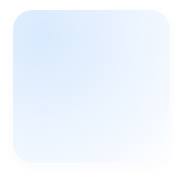
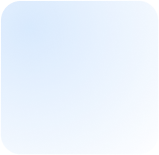
gai BUG

Changed region(s): [[0.0, 0.0, 0.6038, 0.5935]]

diff --git a/lib/src/features/home/presentation/home_widgets.dart b/lib/src/features/home/presentation/home_widgets.dart
@@ -723,102 +723,127 @@ class _CastEntryCard extends StatelessWidget {
     return GestureDetector(
       behavior: HitTestBehavior.opaque,
       onTap: onTap,
-      child: AspectRatio(
-        // 小程序 .projection-card：366×358rpx = 183×179。底图 home-*-card-bg.png
-        // 自带阴影（画布 183×179，可见卡片仅 159×155，四周约 12rpx 透明阴影边距），
-        // 因此按图片真实宽高比布局，避免被拉伸导致圆角与阴影变形。
-        aspectRatio: 183 / 179,
+      child: SizedBox(
+        // 卡片为 UI 设计图实际尺寸 158×154（即背景图 home-*-card-bg.png 的真实宽高）。
+        // 阴影不再来自图片透明边距，改由下方 boxShadow 在卡外绘制，不计入布局尺寸。
+        width: 158,
+        height: 154,
         child: Stack(
+          fit: StackFit.expand,
           children: [
-            // 卡片底图铺满（home-camera-card-bg.png / home-album-card-bg.png）。
-            Positioned.fill(
-              child: Image.asset(
-                backgroundAsset,
-                fit: BoxFit.fill,
-                errorBuilder: (context, error, stackTrace) {
-                  return DecoratedBox(
-                    decoration: BoxDecoration(
-                      color: fallbackColor,
-                      borderRadius: BorderRadius.circular(16),
-                      border: Border.all(
-                        color: Colors.white.withValues(alpha: 0.7),
-                      ),
-                    ),
-                  );
-                },
-              ),
-            ),
-            // 顶部素材图：margin 46rpx(=23) top/left。
-            Positioned(
-              left: 28,
-              top: 25,
-              width: 66,
-              height: 66,
-              child: Image.asset(
-                artAsset,
-                fit: BoxFit.contain,
-                errorBuilder: (context, error, stackTrace) {
-                  return Icon(
-                    title == '拍照'
-                        ? Icons.photo_camera_rounded
-                        : Icons.photo_library_rounded,
-                    color: title == '拍照'
-                        ? const Color(0xFFFF6A24)
-                        : const Color(0xFF287BFF),
-                    size: 44,
-                  );
-                },
-              ),
-            ),
-            // 底部文案行：.projection-copy（名称 + 描述 + 大箭头）。
-            Positioned(
-              left: 33,
-              right: 20,
-              bottom: 30,
-              child: Row(
-                crossAxisAlignment: CrossAxisAlignment.center,
-                children: [
-                  Expanded(
-                    child: Column(
-                      crossAxisAlignment: CrossAxisAlignment.start,
-                      mainAxisSize: MainAxisSize.min,
-                      children: [
-                        Text(
-                          title,
-                          maxLines: 1,
-                          overflow: TextOverflow.ellipsis,
-                          style: _HomeTextStyles.cardTitle,
-                        ),
-                        const SizedBox(height: 6),
-                        Text(
-                          subtitle,
-                          maxLines: 1,
-                          overflow: TextOverflow.ellipsis,
-                          style: _HomeTextStyles.cardSubtitle,
-                        ),
-                      ],
-                    ),
+            // 卡面层：圆角渐变底图 + 1px 白描边 + 0.64 半透明 + 柔和投影。
+            // 对照前端 CSS：border-radius:20; border:1px solid #FFF; opacity:0.64;
+            //              background:radial-gradient(...)（暖白/浅蓝已烘焙进底图）;
+            //              box-shadow:0 3px 12px rgba(44,63,97,0.04)。
+            // 投影放在最外层（全强度），卡面（描边+底图）整体 0.64，避免阴影一并被淡到不可见。
+            DecoratedBox(
+              decoration: BoxDecoration(
+                borderRadius: BorderRadius.circular(20),
+                boxShadow: const [
+                  BoxShadow(
+                    color: Color.fromRGBO(44, 63, 97, 0.04),
+                    offset: Offset(0, 3),
+                    blurRadius: 12,
                   ),
-                  const SizedBox(width: 4),
-                  SizedBox(
-                    width: 59,
-                    height: 59,
+                ],
+              ),
+              child: Opacity(
+                opacity: 0.64,
+                child: Container(
+                  clipBehavior: Clip.antiAlias,
+                  decoration: BoxDecoration(
+                    borderRadius: BorderRadius.circular(20),
+                    border: Border.all(color: Colors.white, width: 1),
+                  ),
+                  child: Image.asset(
+                    backgroundAsset,
+                    fit: BoxFit.cover,
+                    errorBuilder: (context, error, stackTrace) {
+                      // 兜底：底图缺失时用纯色近似卡面（暖白/浅蓝）。
+                      return ColoredBox(color: fallbackColor);
+                    },
+                  ),
+                ),
+              ),
+            ),
+            // 内容层：左上素材图 + 底部「名称/描述 + 箭头」行，对照小程序 .projection-card
+            // 的 flex 纵向流（.media-art 在上、.projection-copy 在下），按 158×154 卡面换算留白。
+            Column(
+              crossAxisAlignment: CrossAxisAlignment.start,
+              children: [
+                // .media-art：66×66，
+                Padding(
+                  padding: const EdgeInsets.only(top: 15, left: 18),
+                  child: SizedBox(
+                    width: 66,
+                    height: 66,
                     child: Image.asset(
-                      arrowAsset,
+                      artAsset,
                       fit: BoxFit.contain,
                       errorBuilder: (context, error, stackTrace) {
                         return Icon(
-                          Icons.arrow_forward_rounded,
+                          title == '拍照'
+                              ? Icons.photo_camera_rounded
+                              : Icons.photo_library_rounded,
                           color: title == '拍照'
                               ? const Color(0xFFFF6A24)
                               : const Color(0xFF287BFF),
-                          size: 30,
+                          size: 44,
                         );
                       },
                     ),
                   ),
-                ],
-              ),
+                ),
+                // .projection-copy：padding 28/27/0/50rpx + flex space-between；换算到卡面后
+                // 上间距 14、左 13、右 2，行内为「名称/描述」+ 右侧大箭头。
+                Padding(
+                  padding: const EdgeInsets.only(top: 14, left: 13, right: 2),
+                  child: Row(
+                    crossAxisAlignment: CrossAxisAlignment.center,
+                    children: [
+                      Expanded(
+                        child: Column(
+                          crossAxisAlignment: CrossAxisAlignment.start,
+                          mainAxisSize: MainAxisSize.min,
+                          children: [
+                            Text(
+                              title,
+                              maxLines: 1,
+                              overflow: TextOverflow.ellipsis,
+                              style: _HomeTextStyles.cardTitle,
+                            ),
+                            const SizedBox(height: 6),
+                            Text(
+                              subtitle,
+                              maxLines: 1,
+                              overflow: TextOverflow.ellipsis,
+                              style: _HomeTextStyles.cardSubtitle,
+                            ),
+                          ],
+                        ),
+                      ),
+                      const SizedBox(width: 4),
+                      SizedBox(
+                        width: 59,
+                        height: 59,
+                        child: Image.asset(
+                          arrowAsset,
+                          fit: BoxFit.contain,
+                          errorBuilder: (context, error, stackTrace) {
+                            return Icon(
+                              Icons.arrow_forward_rounded,
+                              color: title == '拍照'
+                                  ? const Color(0xFFFF6A24)
+                                  : const Color(0xFF287BFF),
+                              size: 30,
+                            );
+                          },
+                        ),
+                      ),
+                    ],
+                  ),
+                ),
+              ],
             ),
           ],
         ),

diff --git a/lib/src/features/home/presentation/home_main_view.dart b/lib/src/features/home/presentation/home_main_view.dart
@@ -50,7 +50,7 @@ class _HomeMainView extends StatelessWidget {
   static const _textInset = EdgeInsets.symmetric(horizontal: 24);
 
   /// 卡片区横向留白（24rpx）。
-  static const _cardInset = EdgeInsets.symmetric(horizontal: 12);
+  static const _cardInset = EdgeInsets.symmetric(horizontal: 24);
 
   @override
   Widget build(BuildContext context) {
@@ -137,7 +137,7 @@ class _HomeMainView extends StatelessWidget {
     return Column(
       crossAxisAlignment: CrossAxisAlignment.start,
       children: [
-        const Spacer(flex: 4),
+        const SizedBox(height: 95),
         const Center(
           child: SizedBox(width: 240, height: 189, child: _UnboundDeviceArt()),
         ),
@@ -176,7 +176,8 @@ class _HomeMainView extends StatelessWidget {
             ),
           ),
         ),
-        const Spacer(flex: 6),
+        // const Spacer(flex: 6),
+        const SizedBox(height: 68),
         ..._castSection(),
         const Spacer(),
         Padding(
@@ -202,31 +203,29 @@ class _HomeMainView extends StatelessWidget {
       const SizedBox(height: 8),
       Padding(
         padding: _cardInset,
+        // 两张卡为 UI 设计图实际尺寸 158×154（DevTools 选中即为该尺寸，不缩放/不拉伸）；
+        // 左右留白固定（_cardInset），中间间距用 spaceBetween 取剩余宽度自适应分配。
+        // 卡片阴影由卡内 boxShadow 在卡外绘制（不计入尺寸），自然形成卡间与边缘的视觉间隙。
         child: Row(
+          mainAxisAlignment: MainAxisAlignment.spaceBetween,
           children: [
-            Expanded(
-              child: _CastEntryCard(
-                title: '拍照',
-                subtitle: '拍摄照片并投屏',
-                artAsset: 'assets/images/camera_material.png',
-                arrowAsset: 'assets/images/home-camera-card-right-icon.png',
-                backgroundAsset: 'assets/images/home-camera-card-bg.png',
-                fallbackColor: const Color(0xFFFFF8F4),
-                onTap: onCamera,
-              ),
+            _CastEntryCard(
+              title: '拍照',
+              subtitle: '拍摄照片并投屏',
+              artAsset: 'assets/images/camera_material.png',
+              arrowAsset: 'assets/images/home-camera-card-right-icon.png',
+              backgroundAsset: 'assets/images/home-camera-card-bg.png',
+              fallbackColor: const Color(0xFFFFF8F4),
+              onTap: onCamera,
             ),
-            // 不额外留间距：两张底图各自带约 12rpx 透明阴影边距，并排即形成
-            // 与小程序一致的视觉间隙（小程序 .projection-grid 卡片溢出收缩后亦无显式间距）。
-            Expanded(
-              child: _CastEntryCard(
-                title: '相册',
-                subtitle: '选择照片并投屏',
-                artAsset: 'assets/images/album_material.png',
-                arrowAsset: 'assets/images/home-album-card-right-icon.png',
-                backgroundAsset: 'assets/images/home-album-card-bg.png',
-                fallbackColor: const Color(0xFFEAF4FF),
-                onTap: onAlbum,
-              ),
+            _CastEntryCard(
+              title: '相册',
+              subtitle: '选择照片并投屏',
+              artAsset: 'assets/images/album_material.png',
+              arrowAsset: 'assets/images/home-album-card-right-icon.png',
+              backgroundAsset: 'assets/images/home-album-card-bg.png',
+              fallbackColor: const Color(0xFFEAF4FF),
+              onTap: onAlbum,
             ),
           ],
         ),
